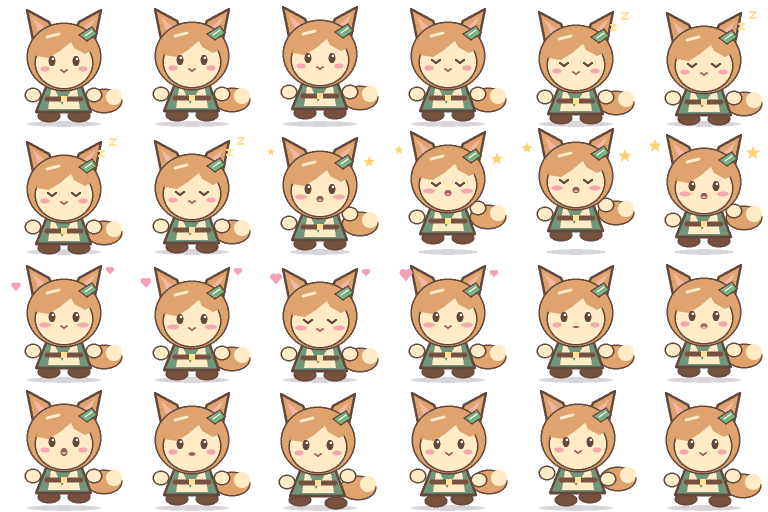
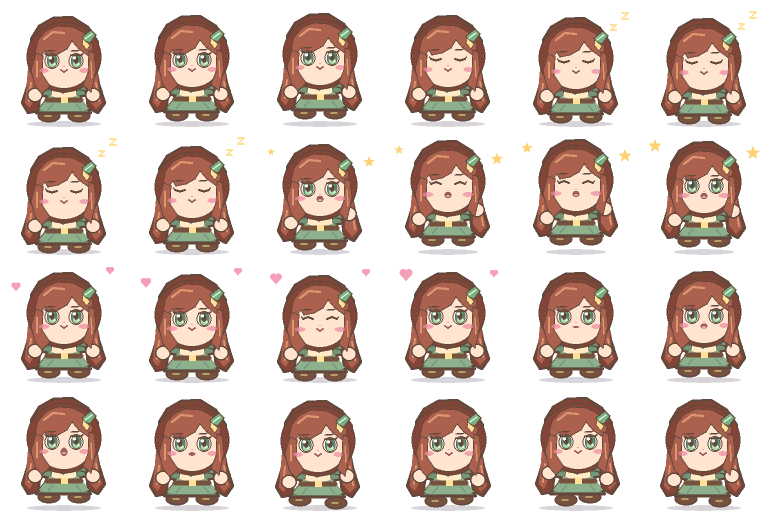
feat(art): establish anime heroine visual direction and versioned fixtures

diff --git a/apps/desktop/src/renderer/shared/PetPortrait.vue b/apps/desktop/src/renderer/shared/PetPortrait.vue
@@ -8,69 +8,84 @@ withDefaults(defineProps<{
 </script>
 
 <template>
-  <!-- Original vector placeholder, deliberately independent of game state or a model SDK. -->
+  <!-- Original anime heroine placeholders, independent of game state and model SDK. -->
   <svg class="portrait" :class="{ paused, sleeping, away }" viewBox="0 0 180 184" fill="none" aria-hidden="true">
     <ellipse cx="90" cy="169" rx="61" ry="9" fill="#271d32" opacity=".26" />
     <g v-if="characterId === 'star-singer'" class="breathe" stroke-linecap="round" stroke-linejoin="round">
-      <!-- Cape and little boots -->
-      <path d="M62 120C53 131 45 149 45 159c20 10 70 10 90-1l-17-39" fill="#7563b6" stroke="#403051" stroke-width="3" />
-      <path d="M68 156v8c-7 0-10 3-8 6h23l2-12M96 159l1 11h23c2-4-2-7-9-7v-7" fill="#53446c" stroke="#403051" stroke-width="3" />
-      <path d="M66 120h49l9 38H55l11-38Z" fill="#b9a7ec" stroke="#403051" stroke-width="3" />
-      <path d="m90 123-17 34h34L90 123Z" fill="#fff2d6" />
-      <path d="M90 129v13m-6-6h12" stroke="#9a68b6" stroke-width="2.5" />
-      <!-- Face and moon-colored hair -->
-      <path d="M39 92c-4-37 17-58 51-59 35-1 55 23 52 55l6 23c-10 20-29 29-58 29-32 0-54-12-58-32l7-16Z" fill="#a494df" stroke="#403051" stroke-width="3" />
+      <!-- Long pink hair and two curved fantasy horns, not animal ears. -->
+      <path d="M39 79C37 45 61 27 90 27s53 19 52 54c-1 27 13 54 17 80l-11 11-13-7-10 6-7-23-17 13H78l-17-13-8 23-10-6-14 7-10-11c4-25 20-55 20-82Z" fill="#ad507d" stroke="#433451" stroke-width="3" />
+      <path d="M42 79q-1 40-15 83l12 6q19-24 20-63l-17-26Zm98 0q1 40 15 83l-12 6q-19-24-20-63l17-26Z" fill="#e47d98" />
+      <path d="M37 110q-5 27-11 43m117-43q5 27 11 43" stroke="#ffb2c8" stroke-width="3.2" />
+      <path d="M59 58C43 56 30 45 28 31c-2-11 2-20 14-25-5 12-4 21 3 28l17 12Z" fill="#3d304d" stroke="#433451" stroke-width="3" />
+      <path d="M121 58c16-2 29-13 31-27 2-11-2-20-14-25 5 12 4 21-3 28l-17 12Z" fill="#3d304d" stroke="#433451" stroke-width="3" />
+      <path d="M34 24q-1 14 16 24m96-24q1 14-16 24" stroke="#876a96" stroke-width="3" />
+      <!-- Dark purple tailored skirt, long stockings and boots. -->
+      <path d="M67 151v15c-7 0-11 4-9 7h25l3-19m10 0 2 19h25c2-3-3-7-10-7v-15" fill="#30263f" stroke="#433451" stroke-width="3" />
+      <path d="M72 155v11m36-11v11" stroke="#8b759d" stroke-width="2.5" />
+      <path d="M65 135h50l13 25H52l13-25Z" fill="#726082" stroke="#433451" stroke-width="3" />
+      <path d="M75 142l-9 14m40-14 9 14m-55 1h60" stroke="#473752" stroke-width="2.2" />
+      <path d="M64 119h18l8 12 8-12h18l5 23H59l5-23Z" fill="#30263f" stroke="#433451" stroke-width="3" />
+      <path d="m78 120 12 11 12-11-5 20H83l-5-20Z" fill="#69527d" stroke="#b67ab1" stroke-width="2" />
+      <path d="M61 140h58" stroke="#b67ab1" stroke-width="3" />
+      <path d="m90 128 2 5 6 1-4 4 1 6-5-3-5 3 1-6-4-4 6-1 2-5Z" fill="#ffe29a" />
+      <path d="M60 129q-14-4-18 8l7 7 11-5m60-10q14-4 18 8l-7 7-11-5" fill="#ffe5cf" stroke="#433451" stroke-width="2.5" />
+      <!-- Human face, swept bangs and feminine eye styling. -->
       <ellipse cx="90" cy="95" rx="39" ry="34" fill="#ffe5cf" stroke="#403051" stroke-width="2.5" />
-      <path d="M48 86c0-35 18-43 46-43 25 0 41 15 41 37-15-3-33-9-41-19-7 13-24 22-46 25Z" fill="#cbbdf8" stroke="#403051" stroke-width="2.5" />
-      <path d="M53 83c-4 16 0 32 8 39m67-40c4 14 0 32-8 39" stroke="#7966b2" stroke-width="3.5" />
-      <!-- Lavender wizard's hat -->
-      <path d="M32 66 58 56 71 16l27-6 35 43 20 11c-21 11-75 18-121 2Z" fill="#6e5aa7" stroke="#403051" stroke-width="3" />
-      <path d="m58 56 75-3 5 7c-22 9-55 9-85 5l5-9Z" fill="#cab7f1" />
-      <path d="m90 18 4 9 10 1-7 7 2 10-9-5-9 5 2-10-7-7 10-1 4-9Z" fill="#ffe29a" stroke="#f5d087" stroke-width="1.5" />
-      <path d="M69 12C63 10 62 5 61 3" stroke="#7c6abd" stroke-width="2.5" />
-      <!-- Eyes and blush -->
+      <path d="M48 83c0-35 18-48 46-48 25 0 42 22 42 47-16-7-27-13-32-25-4 12-10 16-13 23l-9-12C73 77 60 84 48 83Z" fill="#e17a98" stroke="#433451" stroke-width="2.5" />
+      <path d="M51 78q-10 27 2 54l9-6q-7-20 0-38m67-10q10 27-2 54l-9-6q7-20 0-38" fill="#e47d98" stroke="#433451" stroke-width="2.5" />
+      <path d="M57 61q10-9 24-11m-28 40q-2 16 3 29m72-29q2 16-3 29" stroke="#ffb2c8" stroke-width="3" />
       <g v-if="sleeping" stroke="#493451" stroke-width="3"><path d="M67 95q6 7 12 0m22 0q6 7 12 0" /></g>
-      <g v-else class="eyes" fill="#4d355e">
-        <ellipse cx="74" cy="96" rx="4.4" ry="7.2" /><ellipse cx="107" cy="96" rx="4.4" ry="7.2" />
-        <circle cx="75.2" cy="93.4" r="1.6" fill="#fff9ec" /><circle cx="108.2" cy="93.4" r="1.6" fill="#fff9ec" />
+      <g v-else class="eyes" stroke="#493451" stroke-width="1.5">
+        <ellipse cx="74" cy="96" rx="9" ry="10.4" fill="#fff9ee" /><ellipse cx="107" cy="96" rx="9" ry="10.4" fill="#fff9ee" />
+        <ellipse cx="74" cy="96" rx="6.4" ry="9.1" fill="#638ec8" /><ellipse cx="107" cy="96" rx="6.4" ry="9.1" fill="#d779a7" />
+        <ellipse cx="74.5" cy="100.5" rx="4.7" ry="3.2" fill="#b4ddf7" stroke="none" /><ellipse cx="107.5" cy="100.5" rx="4.7" ry="3.2" fill="#ffc3dc" stroke="none" />
+        <ellipse cx="74" cy="95" rx="3.5" ry="5.3" fill="#433451" /><ellipse cx="107" cy="95" rx="3.5" ry="5.3" fill="#433451" />
+        <path d="M65 91l-3-3m53 3 3-3M67 87q7-4 14 0m19 0q7-4 14 0" fill="none" stroke-width="2.5" />
+        <circle cx="71.5" cy="92" r="2.5" fill="#fff9ee" stroke="none" /><circle cx="104.5" cy="92" r="2.5" fill="#fff9ee" stroke="none" />
+        <circle cx="77.1" cy="100.3" r="1.2" fill="#fff9ee" stroke="none" /><circle cx="110.1" cy="100.3" r="1.2" fill="#fff9ee" stroke="none" />
       </g>
       <ellipse cx="63" cy="106" rx="6" ry="3" fill="#f3a8ad" opacity=".7" /><ellipse cx="118" cy="106" rx="6" ry="3" fill="#f3a8ad" opacity=".7" />
       <path d="M86 106q4.5 4 9 0" stroke="#8f5260" stroke-width="2" />
-      <path d="M132 96l10 42" stroke="#67404a" stroke-width="4" />
-      <path d="m130 82 4 7 8 1-5 6 1 8-7-4-7 4 1-8-6-6 8-1 3-7Z" fill="#ffdc91" stroke="#bd8551" stroke-width="1.8" />
     </g>
     <g v-else-if="characterId === 'fluffy-ranger'" class="breathe" stroke-linecap="round" stroke-linejoin="round">
-      <!-- Fluffy tail, vest and boots -->
-      <path d="M125 140c22-19 46-13 34 9-6 12-18 20-39 14Z" fill="#dc925e" stroke="#614334" stroke-width="3" />
-      <path d="M143 132c13-2 20 4 16 17-4 7-8 11-12 13-4-9-7-18-4-30Z" fill="#ffecc7" />
+      <!-- Auburn-haired human woodland adventurer. -->
+      <path d="M39 77C38 34 59 25 90 25s53 19 52 52c-1 31 10 53 12 78l-10 9-13-6-7 6-6-25-17 14H79l-17-14-6 25-7-6-13 6-10-9c2-25 13-47 12-78Z" fill="#844537" stroke="#614334" stroke-width="3" />
+      <path d="M38 87q3 37-10 65l11 9q19-23 18-61l-19-13Zm104 0q-3 37 10 65l-11 9q-19-23-18-61l19-13Z" fill="#ac604e" />
+      <path d="M42 118l-8 31m104-31 8 31" stroke="#df956e" stroke-width="3" />
       <path d="M68 157v8c-8-1-12 4-10 6h25l2-13m10 0 2 13h25c1-3-4-6-10-6l-1-8" fill="#6f5148" stroke="#614334" stroke-width="3" />
       <path d="M64 119h52l12 40H53l11-40Z" fill="#71977b" stroke="#614334" stroke-width="3" />
-      <path d="m79 123 11 29 12-29 13 34H65l14-34Z" fill="#fbddac" />
+      <path d="m72 119 18 15 18-15 5 25H67l5-25Z" fill="#fbddac" stroke="#614334" stroke-width="1.5" />
+      <path d="M64 139l-7 10 13-3 20 10 19-10 15 3-8-10-11-14-15 10-15-10Z" fill="#71977b" stroke="#614334" stroke-width="2" />
       <path d="M70 142h40" stroke="#805d48" stroke-width="6" /><rect x="85" y="139" width="10" height="7" rx="1.5" fill="#f8cb70" />
-      <!-- Animal ears and hair -->
-      <path d="M48 66 38 20q1-9 14-2l31 30m14 0 31-30q13-7 14 2l-10 46" fill="#dc925e" stroke="#614334" stroke-width="3" />
-      <path d="m48 30 9 28 16-6Zm84 0-9 28-16-6Z" fill="#f5b7a4" />
-      <path d="M34 95c0-35 22-55 56-55s56 20 56 55l-6 18-10 9c-14 13-65 15-80 0l-10-9-6-18Z" fill="#e6a66f" stroke="#614334" stroke-width="3" />
-      <ellipse cx="90" cy="97" rx="39" ry="34" fill="#ffe9ca" stroke="#614334" stroke-width="2.5" />
-      <path d="M52 86c0-29 14-37 37-37 24 0 40 14 40 32-12-5-21-8-26-18-9 12-29 23-51 23Z" fill="#e7a66e" stroke="#614334" stroke-width="2.5" />
-      <path d="M43 91c4 8 4 18 1 27 7-1 10-6 13-12m80-15c-4 8-4 18-1 27-7-1-10-6-13-12" fill="#ffe0b6" stroke="#614334" stroke-width="2.5" />
-      <path d="M61 56q16-16 41-7" stroke="#f4c57d" stroke-width="4" />
+      <ellipse cx="90" cy="97" rx="39" ry="34" fill="#ffe5cf" stroke="#614334" stroke-width="2.5" />
+      <path d="M50 86c0-31 16-48 39-48 24 0 44 21 44 44-12-6-22-10-29-23-4 9-15 13-22 21l-8-8c-7 9-15 13-24 14Z" fill="#ac604e" stroke="#614334" stroke-width="2.5" />
+      <path d="M51 83q-11 26 0 53l11-7q-9-17-3-37m71-9q10 26 0 53l-11-7q9-17 3-37" fill="#ac604e" stroke="#614334" stroke-width="2.5" />
+      <path d="M61 56q16-16 41-7m-49 43q-2 16 3 29m72-29q2 16-3 29" stroke="#df956e" stroke-width="3.2" />
       <path d="m111 53 14-8 7 10-14 5-7-7Z" fill="#76ac83" stroke="#477356" stroke-width="2" />
-      <!-- Eyes, freckles and smile -->
       <g v-if="sleeping" stroke="#624235" stroke-width="3"><path d="M67 97q6 7 12 0m22 0q6 7 12 0" /></g>
-      <g v-else class="eyes" fill="#71513b">
-        <ellipse cx="74" cy="98" rx="4.6" ry="7" /><ellipse cx="106" cy="98" rx="4.6" ry="7" />
-        <circle cx="75.4" cy="95.5" r="1.5" fill="#fff9ec" /><circle cx="107.4" cy="95.5" r="1.5" fill="#fff9ec" />
+      <g v-else class="eyes" stroke="#624235" stroke-width="1.5">
+        <ellipse cx="74" cy="98" rx="9" ry="10.4" fill="#fff9ee" /><ellipse cx="107" cy="98" rx="9" ry="10.4" fill="#fff9ee" />
+        <ellipse cx="74" cy="98" rx="6.4" ry="9.1" fill="#588e78" /><ellipse cx="107" cy="98" rx="6.4" ry="9.1" fill="#588e78" />
+        <ellipse cx="74.5" cy="102.5" rx="4.7" ry="3.2" fill="#aed9a7" stroke="none" /><ellipse cx="107.5" cy="102.5" rx="4.7" ry="3.2" fill="#aed9a7" stroke="none" />
+        <ellipse cx="74" cy="97" rx="3.5" ry="5.3" fill="#624235" /><ellipse cx="107" cy="97" rx="3.5" ry="5.3" fill="#624235" />
+        <path d="M65 93l-3-3m53 3 3-3M67 89q7-4 14 0m19 0q7-4 14 0" fill="none" stroke-width="2.5" />
+        <circle cx="71.5" cy="94" r="2.5" fill="#fff9ee" stroke="none" /><circle cx="104.5" cy="94" r="2.5" fill="#fff9ee" stroke="none" />
+        <circle cx="77.1" cy="102.3" r="1.2" fill="#fff9ee" stroke="none" /><circle cx="110.1" cy="102.3" r="1.2" fill="#fff9ee" stroke="none" />
       </g>
       <ellipse cx="63" cy="108" rx="6" ry="3" fill="#ed9b88" opacity=".7" /><ellipse cx="117" cy="108" rx="6" ry="3" fill="#ed9b88" opacity=".7" />
       <path d="M85 108q5 6 10 0" stroke="#a76b53" stroke-width="2.2" />
-      <path d="M54 132c-11-2-15 7-14 14l10 3 7-7" fill="#ffe9ca" stroke="#614334" stroke-width="2.5" />
-      <path d="M125 131c9-4 15 3 15 12l-9 6-8-7" fill="#ffe9ca" stroke="#614334" stroke-width="2.5" />
+      <path d="M54 132c-11-2-15 7-14 14l10 3 7-7" fill="#ffe5cf" stroke="#614334" stroke-width="2.5" />
+      <path d="M125 131c9-4 15 3 15 12l-9 6-8-7" fill="#ffe5cf" stroke="#614334" stroke-width="2.5" />
     </g>
     <g v-else class="breathe" stroke="#51435a" stroke-width="3" stroke-linecap="round">
-      <path d="M39 106c0-43 23-66 51-66s51 23 51 66-21 54-51 54-51-11-51-54Z" fill="#ccb9d6" />
-      <circle cx="73" cy="99" r="5" fill="#51435a" /><circle cx="107" cy="99" r="5" fill="#51435a" />
-      <path d="M83 114q7 5 14 0" />
+      <!-- Neutral human heroine silhouette for a missing character pack. -->
+      <path d="M46 85c0-32 18-52 44-52s44 20 44 52c0 29 8 44 9 73l-20 5-13-15H70l-13 15-20-5c1-29 9-44 9-73Z" fill="#a497b8" />
+      <path d="M69 151v16l-9 5h23l3-18m10 0 2 18h23l-9-5v-16" fill="#796a8e" />
+      <path d="M66 116h48l14 42H52l14-42Z" fill="#bfb3cc" />
+      <path d="M59 130q-18-2-16 12l9 5 9-8m60-9q18-2 16 12l-9 5-9-8" fill="#d7cce0" />
+      <ellipse cx="90" cy="87" rx="37" ry="34" fill="#d7cce0" />
+      <path d="M50 79c0-30 18-41 43-41 23 0 38 17 38 39-14-6-27-11-33-23-7 13-22 20-48 25Z" fill="#a497b8" />
+      <path d="M68 89q5-4 10 0m24 0q5-4 10 0m-26 12q4 3 8 0" fill="none" stroke-width="2" />
     </g>
     <g v-if="sleeping && !away" class="sleep-marks" fill="#fbe7bd" stroke="#6a597c" stroke-width=".8" stroke-linejoin="round">
       <path d="M144 13h11l-11 12h11v3h-15v-3l11-9h-7Z" />

diff --git a/apps/desktop/tests/builtin-packs.test.ts b/apps/desktop/tests/builtin-packs.test.ts
@@ -35,7 +35,7 @@ describe('versioned built-in character fixtures', () => {
     const resolved = await resolvePack(manifest, {
       paths: () => expected.filter((path) => path !== 'manifest.json'),
       read: async (path) => new Uint8Array(readFileSync(join(directory, path))),
-    }, { characterId, packVersion: '1.0.0', appVersion: '0.0.0' });
+    }, { characterId, packVersion: '1.0.1', appVersion: '0.0.0' });
     expect(resolved.manifest.characterId).toBe(characterId);
     expect(resolved.variants.some((variant) => variant.renderer === 'sprite')).toBe(true);
     expect(resolved.variants.some((variant) => variant.renderer === 'static')).toBe(true);

diff --git a/apps/desktop/src/renderer/asset-packs/builtin-registry.ts b/apps/desktop/src/renderer/asset-packs/builtin-registry.ts
@@ -12,8 +12,8 @@ const atlasFiles = import.meta.glob<string>('./builtin/*/assets/**/*.json', { qu
 const imageFiles = import.meta.glob<string>('./builtin/*/assets/**/*.png', { query: '?inline', import: 'default' });
 
 const BUILTIN_VERSIONS = new Map([
-  ['star-singer', '1.0.0'],
-  ['fluffy-ranger', '1.0.0'],
+  ['star-singer', '1.0.1'],
+  ['fluffy-ranger', '1.0.1'],
 ]);
 
 function decodePngDataUrl(url: string): Uint8Array<ArrayBuffer> {

diff --git a/docs/design/character-art-direction.md b/docs/design/character-art-direction.md
@@ -1,0 +1,20 @@
+# 角色视觉方向补充（V1.1 用户确认）
+
+确认于 2026-11-25：桌面陪伴角色为**二次元美少女**，不是现实猫、狗等动物。项目中的 `petId`、`PetRenderer`、宠物馆等工程概念表示可培养、可陪伴的角色实例；保留稳定命名和兼容性，不限制人物必须是动物。游戏化旅行、升级、互动、人格、独立记忆及多角色机制不变。
+
+## 成品美术目标
+
+- 日系轻小说/二次元奇幻美少女，采用清晰的角色剪影、完整人形、差异化服饰、表情和动作。允许魔族、精灵、兽耳等幻想种族的**人形女性**，不采用真正的动物形态作为首批角色默认形象。
+- 正常比例的精细全身立绘及未来 Live2D 是成品视觉方向；桌面小尺寸还可使用对应角色的 SD/Q 版序列帧显示模式。当前代码生成的 128px 透明工程图集只用于装载、动作、命中及资源切换验证，不能当作正式画师交付物。
+- 角色 ID、版本化资源、职业倾向、人格与实例存档独立：更换画师素材、增加表情、切换序列帧与 Live2D 不迁移业务状态，不让视觉内容决定游戏奖励或权限。
+
+## 首批视觉角色（工程原型）
+
+| 稳定 `characterId` | 昵称 | 视觉路线 |
+|---|---|---|
+| `star-singer` | 星咏 | 绯星魔族美少女。参考用户 2026-11-25 发的魔族少女插画：绯粉超长发、弯曲双魔角、蓝/粉异色瞳、深紫黑奇幻服饰与长靴；成人外观。未来精细立绘、Live2D、各表情与 CG 沿同一人物设定 |
+| `fluffy-ranger` | 绒绒 | 棕红长发的人形森林游侠美少女，森林绿、皮革棕和金色点缀；爽朗活泼、喜欢探索，保留原先角色数据与路线倾向，不再使用动物脸/尾巴 |
+
+用户参考图用于美术设计参考，不自动视作可商业再分发的原图或第三方角色授权。正式素材应独立准备权利记录、原画/立绘、透明序列帧或模型文件、动作清单及 pack 版本；美术授权闸门仍遵循 V1.1 §17.1。当前两内置包的原创工程图示不会冒充参考图的高精度复刻。
+
+本补充只修订产品视觉定位、首批角色表现，不改动已批准 V1.1 的进程、数据库与游戏架构。

diff --git a/docs/development/004a-art-direction.md b/docs/development/004a-art-direction.md
@@ -1,0 +1,11 @@
+# 004A-R 角色视觉定位修订：二次元美少女
+
+日期：2026-11-25。用户明确桌伴为二次元美少女，而非真实动物，另提供魔族少女参考图。详细确认见 [视觉方向补充](../design/character-art-direction.md)。
+
+本次独立变更将 `star-singer`（星咏）做为绯粉长发、魔角、蓝粉异瞳的暗紫服饰魔族美少女，`fluffy-ranger`（绒绒）做为棕红长发、绿色林地衣装的人形游侠少女，去除动物脸/尾等误解；未知图示也改为人形少女轮廓。内置序列帧和旧 SVG fallback 同时更新。仅为原创 Q 版工程图集，不冒充用户参考图的精细正常比例立绘或最终商业素材。保留 `characterId` 以及动作语义、锚点、几何和业务存档；未发布的旧素材 1.0.0 保存在前序 Git commit。本次资源统一升级到 **1.0.1**，重算完整清单哈希，固定 registry 指向新版本。没有修改宠物领域、数据库或玩家数据。
+
+## 检查结果
+
+- 通过 `mise exec node@26.12.1 -- node apps/desktop/scripts/generate-demo-packs.mjs --check`：两套 pack 6 clips × 4 帧，合计 92,555 字节；48 帧边界透明，逐张检查两个静态立绘及图集。固定工具链字节级再生通过。默认 Node 25.6.1 的压缩结果有不同字节（`Fixture drift`），不得用其重新覆盖已提交 hash；该检查以项目锁定 Node 26.12.1 为准。
+- 实际内置资源解析 5/5、Canvas adapter 12/12 自动化回归通过（真实 1.0.1 素材数据、mock Canvas）。没有启动真实桌面。正式素材、CG、角色 Live2D 模型及素材使用许可继续在设计闸门内开发。
+- 此处仅变更美术方向，不提高产品功能覆盖率。

diff --git a/docs/development/README.md b/docs/development/README.md
@@ -16,6 +16,7 @@
 | 003 | 宿主、独立服务、preload 与双 renderer 原型（A–E、R） | 代码、类型、测试与构建通过；真实 Electron 启动待验证 | [003-desktop-host](003-desktop-host.md) |
 | 003-Q | 独立产品功能覆盖与代码行数审计 | 基准 26.7%，实际窗口验收按用户要求暂缓 | [003-progress-audit](003-progress-audit.md) |
 | 004A | 角色资源包契约、完整性准备与内置素材 | 代码与专项测试通过 | [004a-character-packs](004a-character-packs.md) |
+| 004A-R | 美少女桌伴视觉定位、参考设定和 1.0.1 工程素材 | 更新完成 | [004a-art-direction](004a-art-direction.md) |
 | 004B | 渲染适配契约、纯动作时钟、局部命中、口型时间轴 | 代码与专项测试通过 | [004b-rendering-core](004b-rendering-core.md) |
 | 004C | Canvas2D 真实序列帧与桌宠 Canvas 接入（降级） | 代码及专项测试通过，正式 Pixi 待开发 | [004c-canvas-fallback](004c-canvas-fallback.md) |
 | 004D–E | 正式渲染路径、跨窗换宠与资源缓存、CG 图鉴 | 待开发 | — |

diff --git a/README.md b/README.md
@@ -4,7 +4,7 @@
 
 ## 开发导航
 
-- [V1.1 产品与技术设计基线](docs/design/V1.1.md)
+- [V1.1 产品与技术设计基线](docs/design/V1.1.md) · [二次元美少女视觉方向](docs/design/character-art-direction.md)
 - [开发记录索引](docs/development/README.md)
 - [架构决策](docs/adr/0001-architecture-baseline.md) · [Electron 构建与沙箱](docs/adr/0003-electron-build-and-sandbox.md)
 - [POC 验收矩阵](docs/qa/poc-matrix.md)
